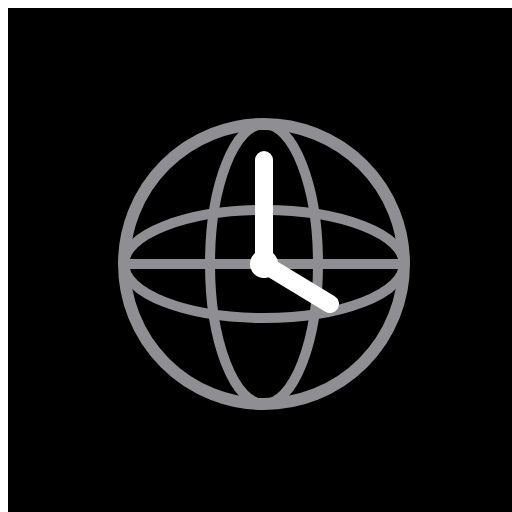
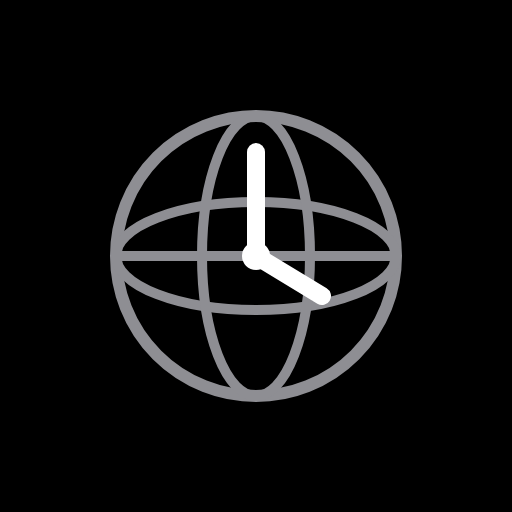
time v1.0.0：无世界时钟静态部署（GitHub Pages）

Changed region(s): [[0.1875, 0.1875, 0.8125, 0.8125], [0.0, 0.0, 1.0, 1.0]]

diff --git a/sw.js b/sw.js
@@ -2,7 +2,7 @@
  * CACHE 名带产物内容哈希：换版自动换缓存名，activate 时删旧缓存。
  * 仅拦截同源 GET：导航 network-first（失败回退缓存，HTML 更新可见），
  * 静态资源 cache-first（离线可用）；跨域（geojs 定位）不拦截、不缓存。 */
-const CACHE = 'time-clock-9b8ef914';
+const CACHE = 'time-clock-81e8270d';
 const PRECACHE = [".nojekyll", "apple-touch-icon.png", "data/world_land.json", "icon-192.png", "icon-512.png", "icon.svg", "index.html", "manifest.json", "static/css/style.css", "static/js/api.js", "static/js/app.js", "static/js/map.js", "static/js/solar-engine.js", "static/js/static-backend.js", "static/js/tz-coords.js", "sw.js"];
 
 self.addEventListener('install', function (e) {
